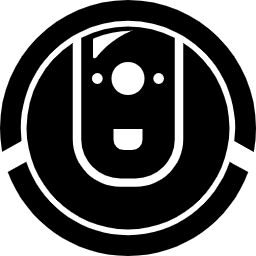
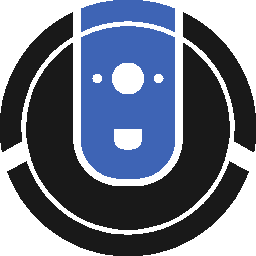
pretty up the code and robot

diff --git a/ardi/visualization/scene.py b/ardi/visualization/scene.py
@@ -25,7 +25,7 @@ class Agent:
     ]
 
     SHIRT_IDX = 0
-    SHIRTS = [[218, 196, 247], [244, 152, 156], [235, 210, 180], [0, 0, 0]]
+    SHIRTS = [[218, 196, 247], [244, 152, 156], [235, 210, 180]]
 
     HAIRS = [[5, 5, 5], [255, 175, 135], [120, 79, 75]]
 
@@ -38,30 +38,26 @@ class Agent:
         goal: Tuple[float, float],
         radius: float = 0.3,
         robot: bool = False,
-        goal_oriented: bool = True,
-        orientation: Optional[float] = None,
     ):
         self._pos = np.array(pos, dtype=np.float32)
         self._goal = np.array(goal, dtype=np.float32)
         self._radius = radius
-        if goal_oriented:
-            self._vel = self._goal - self.pos
-            self._vel += np.finfo(float).eps
-            self._vel /= np.linalg.norm(self._vel)
-            self._vel *= self._radius * 2
-            self._orientation = np.arctan2(self._vel[1], self.vel[0])
-        else:
-            # self._orientation = orientation
-            raise NotImplementedError()
 
-        self._main_color = None
+        self._vel = self._goal - self.pos
+        self._vel += np.finfo(float).eps
+        self._vel /= np.linalg.norm(self._vel)
+        self._vel *= self._radius * 2
+        self._orientation = np.arctan2(self._vel[1], self.vel[0])
+
         pil_img = Image.open(Agent.ROBOT_PATH if robot else Agent.IMG_PATH)
         pil_img = pil_img.rotate(
             np.degrees(self._orientation) - 90, Image.NEAREST, expand=1
         )
         img = np.asarray(pil_img)
-        self._img = self.__generate_random_guy(img)
-        self._offset_img = OffsetImage(self._img, zoom=0.1 if robot else 0.075)
+
+        self._main_color = (0.1, 0.1, 0.1)
+        self._img = img if robot else self.__generate_random_guy(img)
+        self._offset_img = OffsetImage(self._img, zoom=0.125 if robot else 0.075)
 
     @property
     def pos(self):
@@ -130,9 +126,7 @@ class Agent:
         self._main_color = Agent.SHIRTS[Agent.SHIRT_IDX % len(Agent.SHIRTS)]
         Agent.SHIRT_IDX += 1
 
-        # img_ = Agent.__change_color(img_, Agent.HAIR, choice(Agent.HAIRS))
         img_ = Agent.__change_color(img_, Agent.SHIRT, self._main_color)
-        # img_ = Agent.__change_color(img_, Agent.SKIN, choice(Agent.SKINS))
 
         return img_
 
@@ -177,17 +171,16 @@ class Scene:
         return min_x, min_y, max_x, max_y
 
     def __generate_figure(self):
+        # Find out where to focus
         min_x, min_y, max_x, max_y = self.__get_extents()
-
         x_range = abs(max_x - min_x)
         y_range = abs(max_y - min_y)
-
         x_border = x_range * self._border_pct
         y_border = y_range * self._border_pct
 
-        _, ax = plt.subplots()
-        ax.axis("off")
 
+        # Generate the background checkerboard
+        _, ax = plt.subplots()
         cell = 2.5
         for i, x in enumerate(np.arange(min_x, max_x, cell)):
             for j, y in enumerate(np.arange(min_y, max_y, cell)):
@@ -197,12 +190,20 @@ class Scene:
 
                 ax.add_patch(Rectangle((x, y), cell, cell, facecolor=color))
 
+        # Plot the trajectory lines
+        # for agent in self._agents:
+        #     ax.plot([agent.pos[0], agent.goal[0]], [agent.pos[1], agent.goal[1]], color=np.array(agent.color) / 255, alpha=0.5)
+
+        # Add the goal rounded rectangles
         for p in [a.get_goal_patch() for a in self._agents]:
             ax.add_patch(p)
 
+        # Add the icons for the agents
         for artist in [a.get_agent_image() for a in self._agents]:
             ax.add_artist(artist)
 
+        # Make the plots look plain and zoomed in
+        ax.axis("off")
         ax.set_xlim((min_x - x_border, max_x + x_border))
         ax.set_ylim((min_y - y_border, max_y + y_border))
         ax.set_aspect("equal")
